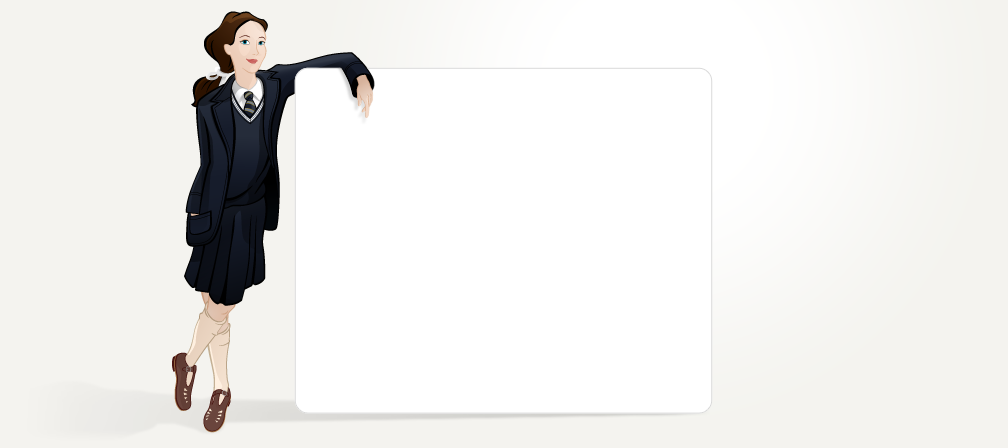
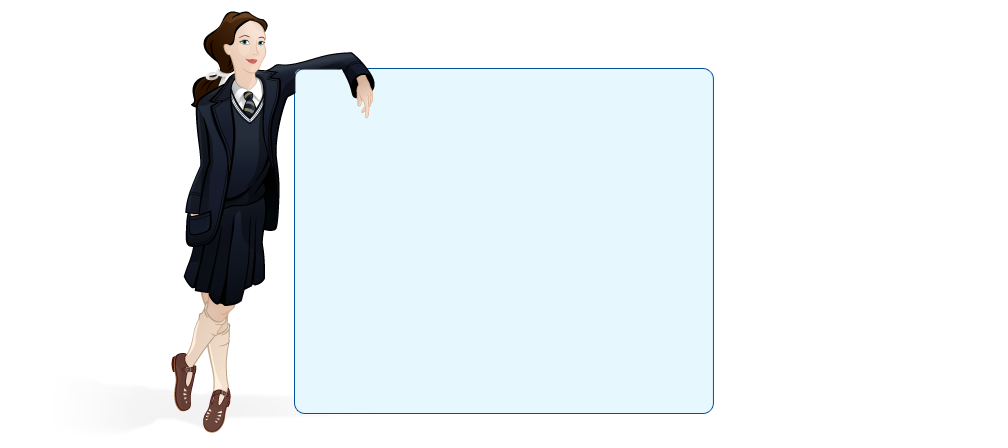
Fix images on login screen to fit new design

diff --git a/www/css/mggs/screen.css b/www/css/mggs/screen.css
@@ -669,13 +669,10 @@ ul.js_happening li:nth-child(odd){
 /*****************************************
 	LOGIN
 *****************************************/
-.mggs-login {
-	background: #f4f3ef;
-}
 .mggs-login #container {
 	margin: 0;
 	padding: 0;
-	background:#F4F3EF;
+	background:#fff;
 }
 .mggs-login #content {
 	background: url(/images/mggs/login-bg.png) no-repeat;
@@ -811,7 +808,7 @@ MORRIS LIBRARY
 #morris .cybersmart p{line-height:18px; margin-bottom:0;}
 
 .updates #galleryCycle div{position:absolute; left:0; top:0;}
-.login-words{height:50px; width:428px; background: url(/images/mggs/mggs-login-words.png) no-repeat; position:absolute; right:50px; bottom:0;}
+/*.login-words{height:50px; width:428px; background: url(/images/mggs/mggs-login-words.png) no-repeat; position:absolute; right:50px; bottom:0;}*/
 
 /*--------------------------------------
     QUICKLINKS

diff --git a/templates/mggs/common/login.html b/templates/mggs/common/login.html
@@ -22,13 +22,13 @@ function init(){
 	<div id="wrap-inner">
     <div id="header">
     	<a class="logo" href="/" title="Melbourne Girls Grammar">
-		<img src="/images/mggs/mggs-logo.gif" width="280" height="67" alt="MGGS" />
+		<img src="/images/mggs/mggs-logo.gif" width="280" height="85" alt="MGGS" />
 
 
 
 		</a>
 
-<div class="login-words"></div>
+<!--<div class="login-words"></div>-->
     </div>
 
     <div id="container">
